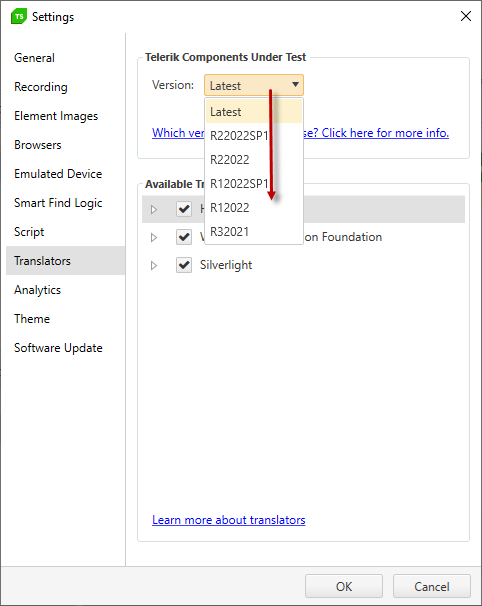
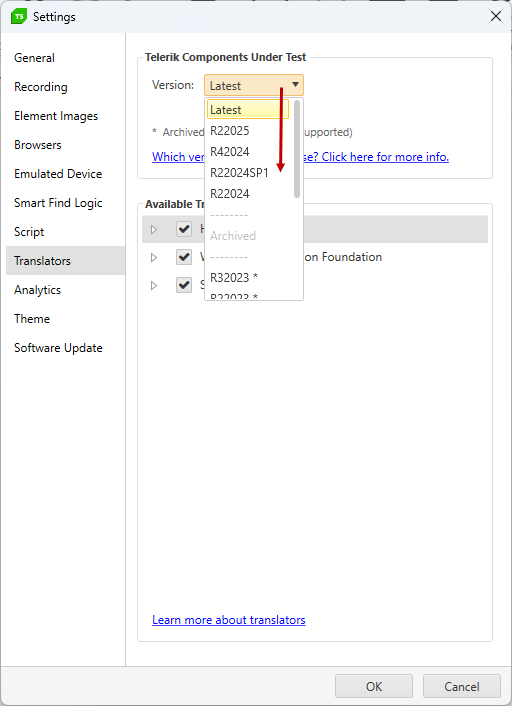
Q4 2025 documentation changes (#79)
* [TSDocs]Q4-2025 docs updates

* [TSDocs]Finalize Q4 docs

---------

diff --git a/docs/knowledge-base/project-configuration-kb/generate-encryption-key.md b/docs/knowledge-base/project-configuration-kb/generate-encryption-key.md
@@ -1,0 +1,163 @@
+---
+title: Generate Encryption Key
+page_title: Generate and Update Encryption Key
+description: Generate Encryption Key for Test Studio projects. Import the new key for all Test Studio installations across all involved machines. 
+position: 0
+---
+# Generate New Encryption Key 
+
+The **Encryption Key** is used to secure sensitive data across the Test Studio projects. You can get the current key or generate a new one in the <a href="/automated-tests/scheduling/multiple-machines-scheduling-setup/create-scheduling-server" target="_blank">Scheduling Config wizard</a>. 
+
+<!-- no toc -->
+- [Manage the Encryption Key](#manage-the-encryption-key)
+  - [Default Encryption Key](#default-encryption-key)
+  - [Generate New Key](#generate-new-encryption-key)
+  - [Copy Current Key](#copy-current-key)
+- [Generate and Import Custom Encryption Key in Single Machine Setup](#generate-and-import-custom-encryption-key-in-single-machine-setup)
+- [Generate and Import Custom Encryption Key in Multiple Machines Setup](#generate-and-import-custom-encryption-key-in-multiple-machines-setup)
+- [Re-Generate the Custom Key](#re-generate-the-custom-key)
+
+## Manage the Encryption Key
+
+Find useful details on the available options to manage the Encryption key.
+
+### Default Encryption Key 
+
+The Encryption tab lets you manage the **Encryption Key** which is used to secure sensitive data across the Test Studio projects including: 
+
+- Passwords for connecting to source control repository or bug tracking systems, and database connection strings used in data driven tests; SMTP credentials if used in the Scheduling configuration;
+- Password steps recorded in automated tests when the _'Encrypt'_ step property is enabled. 
+
+![Encryption key tab](/img/features//scheduling-test-runs/create-scheduling-server/encryption-tab.png)
+
+The **Current Key** section indicates which is the key in use. Test Studio installation uses a default encryption key and you see the current key is the __Default Key Loaded__. In this configuration you can't copy or see the key. 
+
+![Default Encryption key](/img/features//scheduling-test-runs/create-scheduling-server/encryption-default-key.png)
+
+
+### Generate New Key
+
+The **Replace Key** section lets you **Generate** a new key. Once generated, the new value is populated in the text field and is ready to be imported. Hit the **Import** button to replace the current key with the new one. 
+
+![Replace Encryption key](/img/features//scheduling-test-runs/create-scheduling-server/encryption-generate-key.png)
+
+> **Note**
+> <br>
+> <br>
+> When __importing a custom encryption key for the first time__ some of the encrypted data becomes inaccessible. To __continue using your Test Studio projects in such case you must__: 
+> * __re-enter all passwords__ for connecting to source control repository or bug tracking systems, and SMTP settings if used in Scheduling configuration;
+> * all projects on the machine are __upgraded to use the new key__ for __password steps__ in automated tests when the _'Encrypt'_ step property is enabled and for __database connection strings used in data driven tests__ thus _no further interaction is needed_ for these.
+
+> If you decide to __regenerate the encryption key and import a new one__ all encrypted data becomes inaccessible. To __continue using your Test Studio projects in such case you must__: 
+> * __re-enter all passwords__ for connecting to source control repository or bug tracking systems, and database connection strings used in data driven tests, and SMTP settings if used in Scheduling configuration;
+> * __re-record all password steps__ in automated tests when the _'Encrypt'_ step property is enabled.
+
+
+### Copy Current Key
+
+Once a custom key is generated and imported, the **Current Key** section allows you to copy the value of the key using the __Copy to Clipboard__ button, or see it using the __Show__ button (for the cases when copying is not an option).
+
+> **Important!**
+> <br>
+> The copied key __must be imported on all machines__ where Test Studio is in use.
+
+![Custom Encryption key](/img/features//scheduling-test-runs/create-scheduling-server/encryption-custom-key.png)
+
+
+> **Note**
+> <br>
+> <br>
+> The __Encryption key is set per machine__. This means that importing a key on one machine lets all projects on the same machine to use it. If you see any troubles with the imported key on a machine, be sure to restart all Test Studio processes. 
+> <br>
+> <br>
+> The actual __Encryption key__ is kept in a file named `encryptKey.txt` which is saved in folder `C:\ProgramData\Telerik\Test Studio\Configs`. This location is accessible from all users on each local machine and we strongly recommend to ensure its security as per your company security policies. 
+
+## Generate and Import Custom Encryption Key in Single Machine Setup 
+
+Once you generate a new key, hit the **Import** button to replace the current key in use on the current machine. 
+
+In the case when you have only one machine with Test Studio, follow the below steps: 
+
+1. Open the <a href="/automated-tests/scheduling/multiple-machines-scheduling-setup/create-scheduling-server#start-the-test-studio-scheduling-config-wizard" target="_blank">Test Studio Services config wizard</a>. 
+2. Switch to the <a href="/automated-tests/scheduling/multiple-machines-scheduling-setup/create-scheduling-server#encryption-tab" target="_blank">Encryption tab</a> and generate new Encryption key. 
+3. Hit the **Import** button and wait for a while. 
+
+    ![Generate encryption Key](/img/knowledge-base/project-configuration-kb/encryption-key/encryption-generate-key.png)
+
+4. The <a href="/automated-tests/scheduling/multiple-machines-scheduling-setup/create-execution-server#start-the-execution-client" target="_blank">Execution client application from the system tray</a> on this machine is restarted. 
+   
+    __Note!__ You may see a message that the Execution server app is closed and you need to start it manually. 
+
+    ![Restart Execution server](/img/knowledge-base/scheduling-kb/communication-key/restart-exec-server.png)
+
+5. If running __restart Test Studio standalone application__ and current project in use. When restarted __the project will be upgraded__.
+6. If the __project is connected to Git source control__ <a href="/troubleshooting-guide/source-control-problems-tg/fix-git-source-control-lockout-issue-in-test-studio" target="_blank">reset the Git credentials</a>. 
+7. If the __project is connected to bug tracking system__ <a href="/features/integration/bug-tracking/configuration" target="_blank">re-enter the credentials in use</a>.
+8. If the __current machine is used as Scheduling server__ with <a href="/automated-tests/scheduling/multiple-machines-scheduling-setup/create-scheduling-server#automatic-email-notification-for-scheduled-executions" target="_blank">configured SMTP settings, re-enter the credentials in use and apply the change</a>. 
+   
+    **Note!** SMTP settings are applied for the machine where the Scheduling service is in use, so you only need to change these once.
+
+9. __Password steps__ in automated tests when the _'Encrypt'_ step property is enabled are upgraded to use the new encryption key. 
+10.  __Database connection strings used in data driven tests__ are upgraded to use the new encryption key. 
+11. You can continue using the project as before.
+ 
+
+## Generate and Import Custom Encryption Key in Multiple Machines Setup 
+
+Once you generate a new key, hit the **Import** button to replace the current key in use for current machine.  
+
+In the setup where Test Studio project is used on multiple machines,  you need to __import the new key on each machine__. Follow the below steps: 
+
+1. Open the <a href="/automated-tests/scheduling/multiple-machines-scheduling-setup/create-scheduling-server#start-the-test-studio-scheduling-config-wizard" target="_blank">Test Studio Services config wizard</a> on the machine where the Scheduling service is. 
+2. In the <a href="/automated-tests/scheduling/multiple-machines-scheduling-setup/create-scheduling-server#encryption-tab" target="_blank">Encryption tab</a> generate new Encryption key. 
+3. Hit the **Import** button and wait for a while. 
+   
+    ![Generate encryption Key](/img/knowledge-base/project-configuration-kb/encryption-key/encryption-generate-key.png)
+
+4. The <a href="/automated-tests/scheduling/multiple-machines-scheduling-setup/create-execution-server#start-the-execution-client" target="_blank">Execution client application from the system tray</a> on this machine is restarted. 
+   
+    __Note!__ You may see a message that the Execution server app is closed and you need to start it manually. 
+
+    ![Restart Execution server](/img/knowledge-base/scheduling-kb/communication-key/restart-exec-server.png)
+
+5. If running __restart Test Studio standalone application__ and current project in use. When restarted __the project will be upgraded__.
+6. If the __project is connected to Git source control__ <a href="/troubleshooting-guide/source-control-problems-tg/fix-git-source-control-lockout-issue-in-test-studio" target="_blank">reset the Git credentials</a>. 
+7. If the __project is connected to bug tracking system__ <a href="/features/integration/bug-tracking/configuration" target="_blank">re-enter the credentials in use</a>.
+8. If the __current machine is used as Scheduling server__ with <a href="/automated-tests/scheduling/multiple-machines-scheduling-setup/create-scheduling-server#automatic-email-notification-for-scheduled-executions" target="_blank">configured SMTP settings, re-enter the credentials in use and apply the change</a>. 
+   
+    **Note** SMTP settings are applied for the machine where the Scheduling service is in use, so you only need to change these once.
+
+9. __Password steps__ in automated tests when the _'Encrypt'_ step property is enabled are upgraded to use the new encryption key. 
+10. __Database connection strings used in data driven tests__ are upgraded to use the new encryption key. 
+11. If the current project is under source control __push the latest changes to the remote repository__. 
+12. On this same machine __copy the new key__ value from the __Current Key__ section in the Test Studio Services config wizard->Encryption tab. Be sure to __safely distribute the key as per your local security policies__.
+
+    ![Copy current Key](/img/knowledge-base/project-configuration-kb/encryption-key/copy-encryption-key.png)
+
+13. __Logon to each of the machines__ where Test Studio is in use.
+14. <a href="/automated-tests/scheduling/multiple-machines-scheduling-setup/create-scheduling-server#start-the-test-studio-scheduling-config-wizard" target="_blank">Start the Test Studio Services configuration wizard</a>.
+15. Switch to the Encryption tab and use the copied key from your local machine (Step 10. in this list) to import it. Be sure to __safely distribute the key as per your local security policies__.
+    
+    ![Import new Key](/img/knowledge-base/project-configuration-kb/encryption-key/encryption-import-key.png)
+
+16. Hit the **Import** button and wait for a while.
+17. If running the <a href="/automated-tests/scheduling/multiple-machines-scheduling-setup/create-execution-server#start-the-execution-client" target="_blank">Execution client application from the system tray</a> is restarted. 
+   
+    __Note!__ You may see a message that the Execution server app is closed and you need to start it manually. 
+
+    ![Restart Execution server](/img/knowledge-base/scheduling-kb/communication-key/restart-exec-server.png)
+
+18. Repeat steps 13. to 17. for all machines where Test Studio is in use. If __Test Studio application is running while importing the new key be sure to restart it__. 
+19. Continue with __getting the latest version of the project__ from the source control in use and recording/running tests. If the machine is used for test execution as part of the Test Studio Scheduling setup, you need to <a href="/automated-tests/scheduling/upload-latest-files" target="_blank">upload the latest state of project in the Storage database</a>. 
+
+## Re-Generate the Custom Key 
+
+If you decide to __re-generate the custom encryption key__ and replace it with a new one, be informed that __all encrypted data becomes inaccessible__. This means you need to also re-record all password steps across the automated tests and re-enter database connection strings used in data driven testing along with re-entering Git, bug tracking system and SMTP credentials. 
+
+You can follow the steps described for single machine setup or multiple machines configuration listed above with the only change in steps 9. and 10. as follows: 
+
+* __Password steps must be re-recorded__ in automated tests when the _'Encrypt'_ step property is used. 
+    
+    __Tip!__ You can use the option to <a href="/features/custom-steps/overview#add-step-for-a-recorded-element" target="_blank">add steps for an existing element</a> in the elements repository to re-create the step. Another possible approach is to use <a href="/automated-tests/test-execution/partial-test-execution" target="_blank">the partial test run options</a>. 
+
+* __Database connection strings used in data driven tests__ must be <a href="/features/data-driven-testing/add-data-source#add-a-database-source" target="_blank">re-entered</a>.

diff --git a/docs/automated-tests/scheduling/multiple-machines-scheduling-setup/create-scheduling-server.md b/docs/automated-tests/scheduling/multiple-machines-scheduling-setup/create-scheduling-server.md
@@ -114,6 +114,50 @@ The **Replace Key** section lets you **Generate** a new key. Once generated, the
 
 ### Encryption Tab
 
+The Encryption tab lets you manage the **Encryption Key** which is used to secure sensitive data across the Test Studio projects including: 
+
+- Passwords for connecting to source control repository or bug tracking systems, and database connection strings used in data driven tests; SMTP credentials if used in the Scheduling configuration;
+- Password steps recorded in automated tests when the _'Encrypt'_ step property is enabled. 
+
+> **Note**
+> <br>
+> <br>
+> The same __encryption key must be imported on all machines__ where Test Studio product is in use. This is __mandatory__ to ensure encrypted data remains accessible and test execution is not disrupted.
+
+![Encryption tab](/img/features/scheduling-test-runs/create-scheduling-server/encryption-tab.png)
+
+The **Current Key** section indicates which is the key in use. Test Studio installation uses a default encryption key and you see the current key is the __Default Key Loaded__. In this configuration you can't copy or see the key. 
+
+![Default Encryption key](/img/features/scheduling-test-runs/create-scheduling-server/encryption-default-key.png)
+
+> **Tip**
+> <br>
+> <br>
+> We __strongly recommend to generate a new encryption key__ and replace it for all machines in the setup.
+><br>
+> See <a href="/knowledge-base/project-configuration-kb/generate-encryption-key" target="_blank">here step-by-step instructions on updating the communication key</a>.
+
+Once a custom key is generated and imported, the **Current Key** section allows you to copy the value of the key using the __Copy to Clipboard__ button, or see it using the __Show__ button (for the cases when copying is not an option). 
+
+![Custom Encryption key](/img/features/scheduling-test-runs/create-scheduling-server/encryption-custom-key.png)
+
+The **Replace Key** section lets you **Generate** a new key. Once generated, the new value is populated in the text field and is ready to be imported. Hit the **Import** button to replace the current key with the new one. 
+
+![Replace Encryption key](/img/features/scheduling-test-runs/create-scheduling-server/encryption-generate-key.png)
+
+> **Note**
+> <br>
+> <br>
+> When __importing a custom encryption key for the first time__ some of the encrypted data becomes inaccessible. To __continue using your Test Studio projects in such case you must__: 
+> * __re-enter all passwords__ for connecting to source control repository or bug tracking systems, and SMTP settings if used in Scheduling configuration;
+> * all projects on the machine are upgraded to use the new key for password steps in automated tests when the _'Encrypt'_ step property is enabled and for database connection strings used in data driven tests - __no further interaction is needed__ for these.
+
+> If you decide to __regenerate the encryption key and import a new one__ all encrypted data becomes inaccessible. To __continue using your Test Studio projects in such case you must__: 
+> * __re-enter all passwords__ for connecting to source control repository or bug tracking systems, and database connection strings used in data driven tests, and SMTP settings if used in Scheduling configuration;
+> * __re-record all password steps__ in automated tests when the _'Encrypt'_ step property is enabled.
+
+> See <a href="/knowledge-base/project-configuration-kb/generate-encryption-key" target="_blank">here step-by-step instructions on updating the encryption key</a>.
+
 <br>
 <div><a style="float:right" href="#configure-the-test-studio-services">Back to top of section</a></div>
 <br>

diff --git a/docs/knowledge-base/scheduling-kb/generate-communication-key.md b/docs/knowledge-base/scheduling-kb/generate-communication-key.md
@@ -8,6 +8,14 @@ position: 1
 
 The **Communication Key** is required by all Test Studio Scheduling components - services and clients, to establish the connection and communicate between each other. You can get the current key or generate a new one in the <a href="/automated-tests/scheduling/multiple-machines-scheduling-setup/create-scheduling-server" target="_blank">Scheduling Config wizard</a>. 
 
+<!-- no toc -->
+- [Manage the Communication Key](#manage-the-communication-key)
+  - [Default Communication Key](#default-communication-key)
+  - [Generate New Key](#generate-new-key)
+  - [Copy Current Key](#copy-current-key)
+- [Generate and Import Key in Single Machine Scheduling Setup](#generate-and-import-key-in-single-machine-scheduling-setup)
+- [Generate and Import Key in Multiple Machines Scheduling Setup](#generate-and-import-key-in-multiple-machines-scheduling-setup)
+
 ## Manage the Communication Key
 
 Find useful details on the available options to manage the Communication key value.
@@ -43,14 +51,17 @@ The **Replace Key** section lets you **Generate** a new key. Once generated, the
 
 Once a custom key is generated and imported, the **Current Key** section allows you to copy the value of the key using the __Copy to Clipboard__ button, or see it using the __Show__ button (for the cases when copying is not an option). The key value can be reset to the default value using the __Reset to Default__ button.
 
-![Custom Communication key](/img/features/scheduling-test-runs/create-scheduling-server/communication-tab-custom-key.png)
+> **Important!**
+> <br>
+> The copied key __must be imported on all machines__ included in the Test Studio Scheduling setup.
 
-The copied key must be imported on all machines included in the Test Studio Scheduling setup.
+![Custom Communication key](/img/features//scheduling-test-runs/create-scheduling-server/communication-tab-custom-key.png)
+
 
 > **Note**
 > <br>
 > <br>
-> The communication key is set per machine. This means that importing a key on one machine lets all other components on the same machine to use it. If you see any troubles with the imported key on a machine, be sure to restart all Test Studio processes. 
+> The __communication key is set per machine__. This means that importing a key on one machine lets all other components on the same machine to use it. If you see any troubles with the imported key on a machine, be sure to restart all Test Studio processes. 
 
 ## Generate and Import Key in Single Machine Scheduling Setup 
 
@@ -93,13 +104,13 @@ In the setup where all components of the Scheduling configuration are on differe
 
     ![Restart Execution server](/img/knowledge-base/scheduling-kb/communication-key/restart-exec-server.png)
 
-6. On this same machine copy the new key value from the __Current Key__ section in the Scheduling config wizard->Communication tab. 
+6. On this same machine __copy the new key__ value from the __Current Key__ section in the Scheduling config wizard->Communication tab. Be sure to __safely distribute the key as per your local security policies__.
 
     ![Copy current Key](/img/knowledge-base/scheduling-kb/communication-key/copy-current-key.png)
 
 7. Logon to each of the machine utilized as Execution servers in the Scheduling setup.
 8. <a href="/automated-tests/scheduling/multiple-machines-scheduling-setup/create-scheduling-server#start-the-test-studio-scheduling-config-wizard" target="_blank">Start the Test Studio Services configuration wizard</a>.
-9. Switch to the Communication tab and use the copied key from the Scheduling machine (Step 6. in this list) to import it. 
+9. Switch to the Communication tab and use the copied key from the Scheduling machine (Step 6. in this list) to import it. Be sure to __safely distribute the key as per your local security policies__.
     
     ![Import new Key](/img/knowledge-base/scheduling-kb/communication-key/replace-key.png)
 

diff --git a/docs/automated-tests/recording/recording-dialogs.md b/docs/automated-tests/recording/recording-dialogs.md
@@ -150,7 +150,7 @@ Handling of a download dialog typically requires handling a sequence of dialogs 
 
 ## SaveFile and OpenFile Dialogs in WPF Test
 
-The SaveFile and OpenFile actions usually require more than one single interaction with the dialog. Test Studio recording process detects the user actions to choose a folder and file and represents these into a single step to handle the dialog. 
+The __SaveFile__ and __OpenFile__ actions usually require more than one single interaction with the dialog. Test Studio recording process detects the user actions to choose a folder and file and represents these into a single step to handle the dialog. 
 
 > __Note__
 ><br>
@@ -177,7 +177,12 @@ The OpenFile action opens a __OpenFile__ dialog in Windows File Explorer in whic
 
 ### SaveFile Dialog
 
-The Download File dialog opens a __SaveAs__ dialog in Windows File Explorer in which the user browses to a specific folder and enters name for the file to be downloaded. Handling the download dialog typically requires interacting with a sequence of dialogs - the application prompts to download a file and the File Explorer lets you choose the destination path; optionally, handling a prompt message that a file with the same name already exists in the selected folder - the existing file is overwritten in such case. Test Studio fetches all actions taken and automatically records the __Handle SaveFile dialog__ step and populates the complete file path and name. 
+The Download File dialog opens a __SaveAs__ dialog in Windows File Explorer in which the user browses to a specific folder and enters name for the file to be downloaded. Handling the download dialog typically requires interacting with a sequence of dialogs - the application prompts to download a file and the File Explorer lets you choose the destination path. Test Studio fetches all actions taken and automatically records the __Handle SaveFile dialog__ step and populates the complete file path and name. 
+
+ __Note!__
+><br>
+><br>
+> Optionally, you may see an additional dialog that a file with the same name already exists in the selected folder where you can choose whether to overwrite the file. This dialog is recognized as a generic type of dialog and needs to be handled only if it appears - this scenario is supported only in a coded step as described <a href="/advanced-topics/coded-samples/html/conditional-dialog-handling" target="_blank">here</a>. 
 
 <table id=no-table>
 <tr>

diff --git a/docs/advanced-topics/coded-samples/html/conditional-dialog-handling.md b/docs/advanced-topics/coded-samples/html/conditional-dialog-handling.md
@@ -12,7 +12,12 @@ position: 1
 
 This is possible with a coded solution. The action that potentially triggers the dialog must be included in the code.
 
-````C#
+ __Tip!__
+><br>
+><br>
+> The example shows handling an alert dialog in a web test. Though the sample can be adjusted to implement any of the <a href="/testing-framework/write-tests-in-code/advanced-topics-wtc/html-popups-and-dialogs-wtc/built-in-handlers" target="_blank">available built-in dialog handlers</a> including WPF dialogs. 
+
+```C#
 ActiveBrowser.NavigateTo("http://www.w3schools.com/js/tryit.asp?filename=tryjs_alert");
  
 //Create the dialog and add it to the monitor

diff --git a/docs/features/project-settings/translators.md b/docs/features/project-settings/translators.md
@@ -26,6 +26,13 @@ The __Telerik Components Under Test__ section lets you instruct the translators'
 
 ![Telerik Components Under Test Version][2]
 
+> __Note!__
+> <br> 
+> __Test Studio supports the latest version of Telerik and Kendo UI components, as well as versions released within the past two years__.
+> <br>
+> <br>
+> All previous versions are marked with __*__ to indicate these are no longer supported. You can continue using these archived versions but in case any misbehavior is identified it will not be addressed. 
+
 ## How to Know Which is the Version of Components Used in the Tested Page?
 
 As Quality Assurance Engineer you often don't know what type and version of UI components was used to create the application you need to automate. And since there is no convenient way to identify the version of the components in an already built and deployed application, the __most reliable approach is to contact the development team__ and discuss the topic internally.

diff --git a/docs/knowledge-base/project-configuration-kb/disconnect-from-fource-control.md b/docs/knowledge-base/project-configuration-kb/disconnect-from-fource-control.md
@@ -4,7 +4,7 @@ page_title: Disconnect From Source Control
 description: How to disconnect a local project from TFS, so it is no longer source controlled.
 position: 1
 ---
-## Disconnect From Source Control
+# Disconnect From Source Control
 
 I'd like to disconnect a local project from TFS, so it is no longer source controlled.
 

diff --git a/docs/knowledge-base/project-configuration-kb/multiple-projects.md b/docs/knowledge-base/project-configuration-kb/multiple-projects.md
@@ -4,7 +4,7 @@ page_title: Multiple Projects
 description: Reusing tests and Helper methods across multiple projects. When multiple projects use the same or similar resources, you may wish to share or integrate these project resources. Here we address four scenarios - Sharing helper methods (standalone code file) between projects, sharing data sources between projects, and importing tests from other projects.
 position: 1
 ---
-## Multiple Projects
+# Multiple Projects
 
 When multiple projects use the same or similar resources, you may wish to share or integrate these project resources. Here we address four scenarios: Sharing helper methods between projects, sharing data sources between projects, and importing tests from other projects.
 

diff --git a/docs/troubleshooting-guide/source-control-problems-tg/fix-git-source-control-lockout-issue-in-test-studio.md b/docs/troubleshooting-guide/source-control-problems-tg/fix-git-source-control-lockout-issue-in-test-studio.md
@@ -8,6 +8,7 @@ slug: fix-git-source-control-lockout-issue-in-test-studio
 tags: git, source control, lockout, push commits, troubleshooting
 res_type: kb
 ---
+# Reset Git Credentials Used in Test Studio Project
 
 ## Description
 